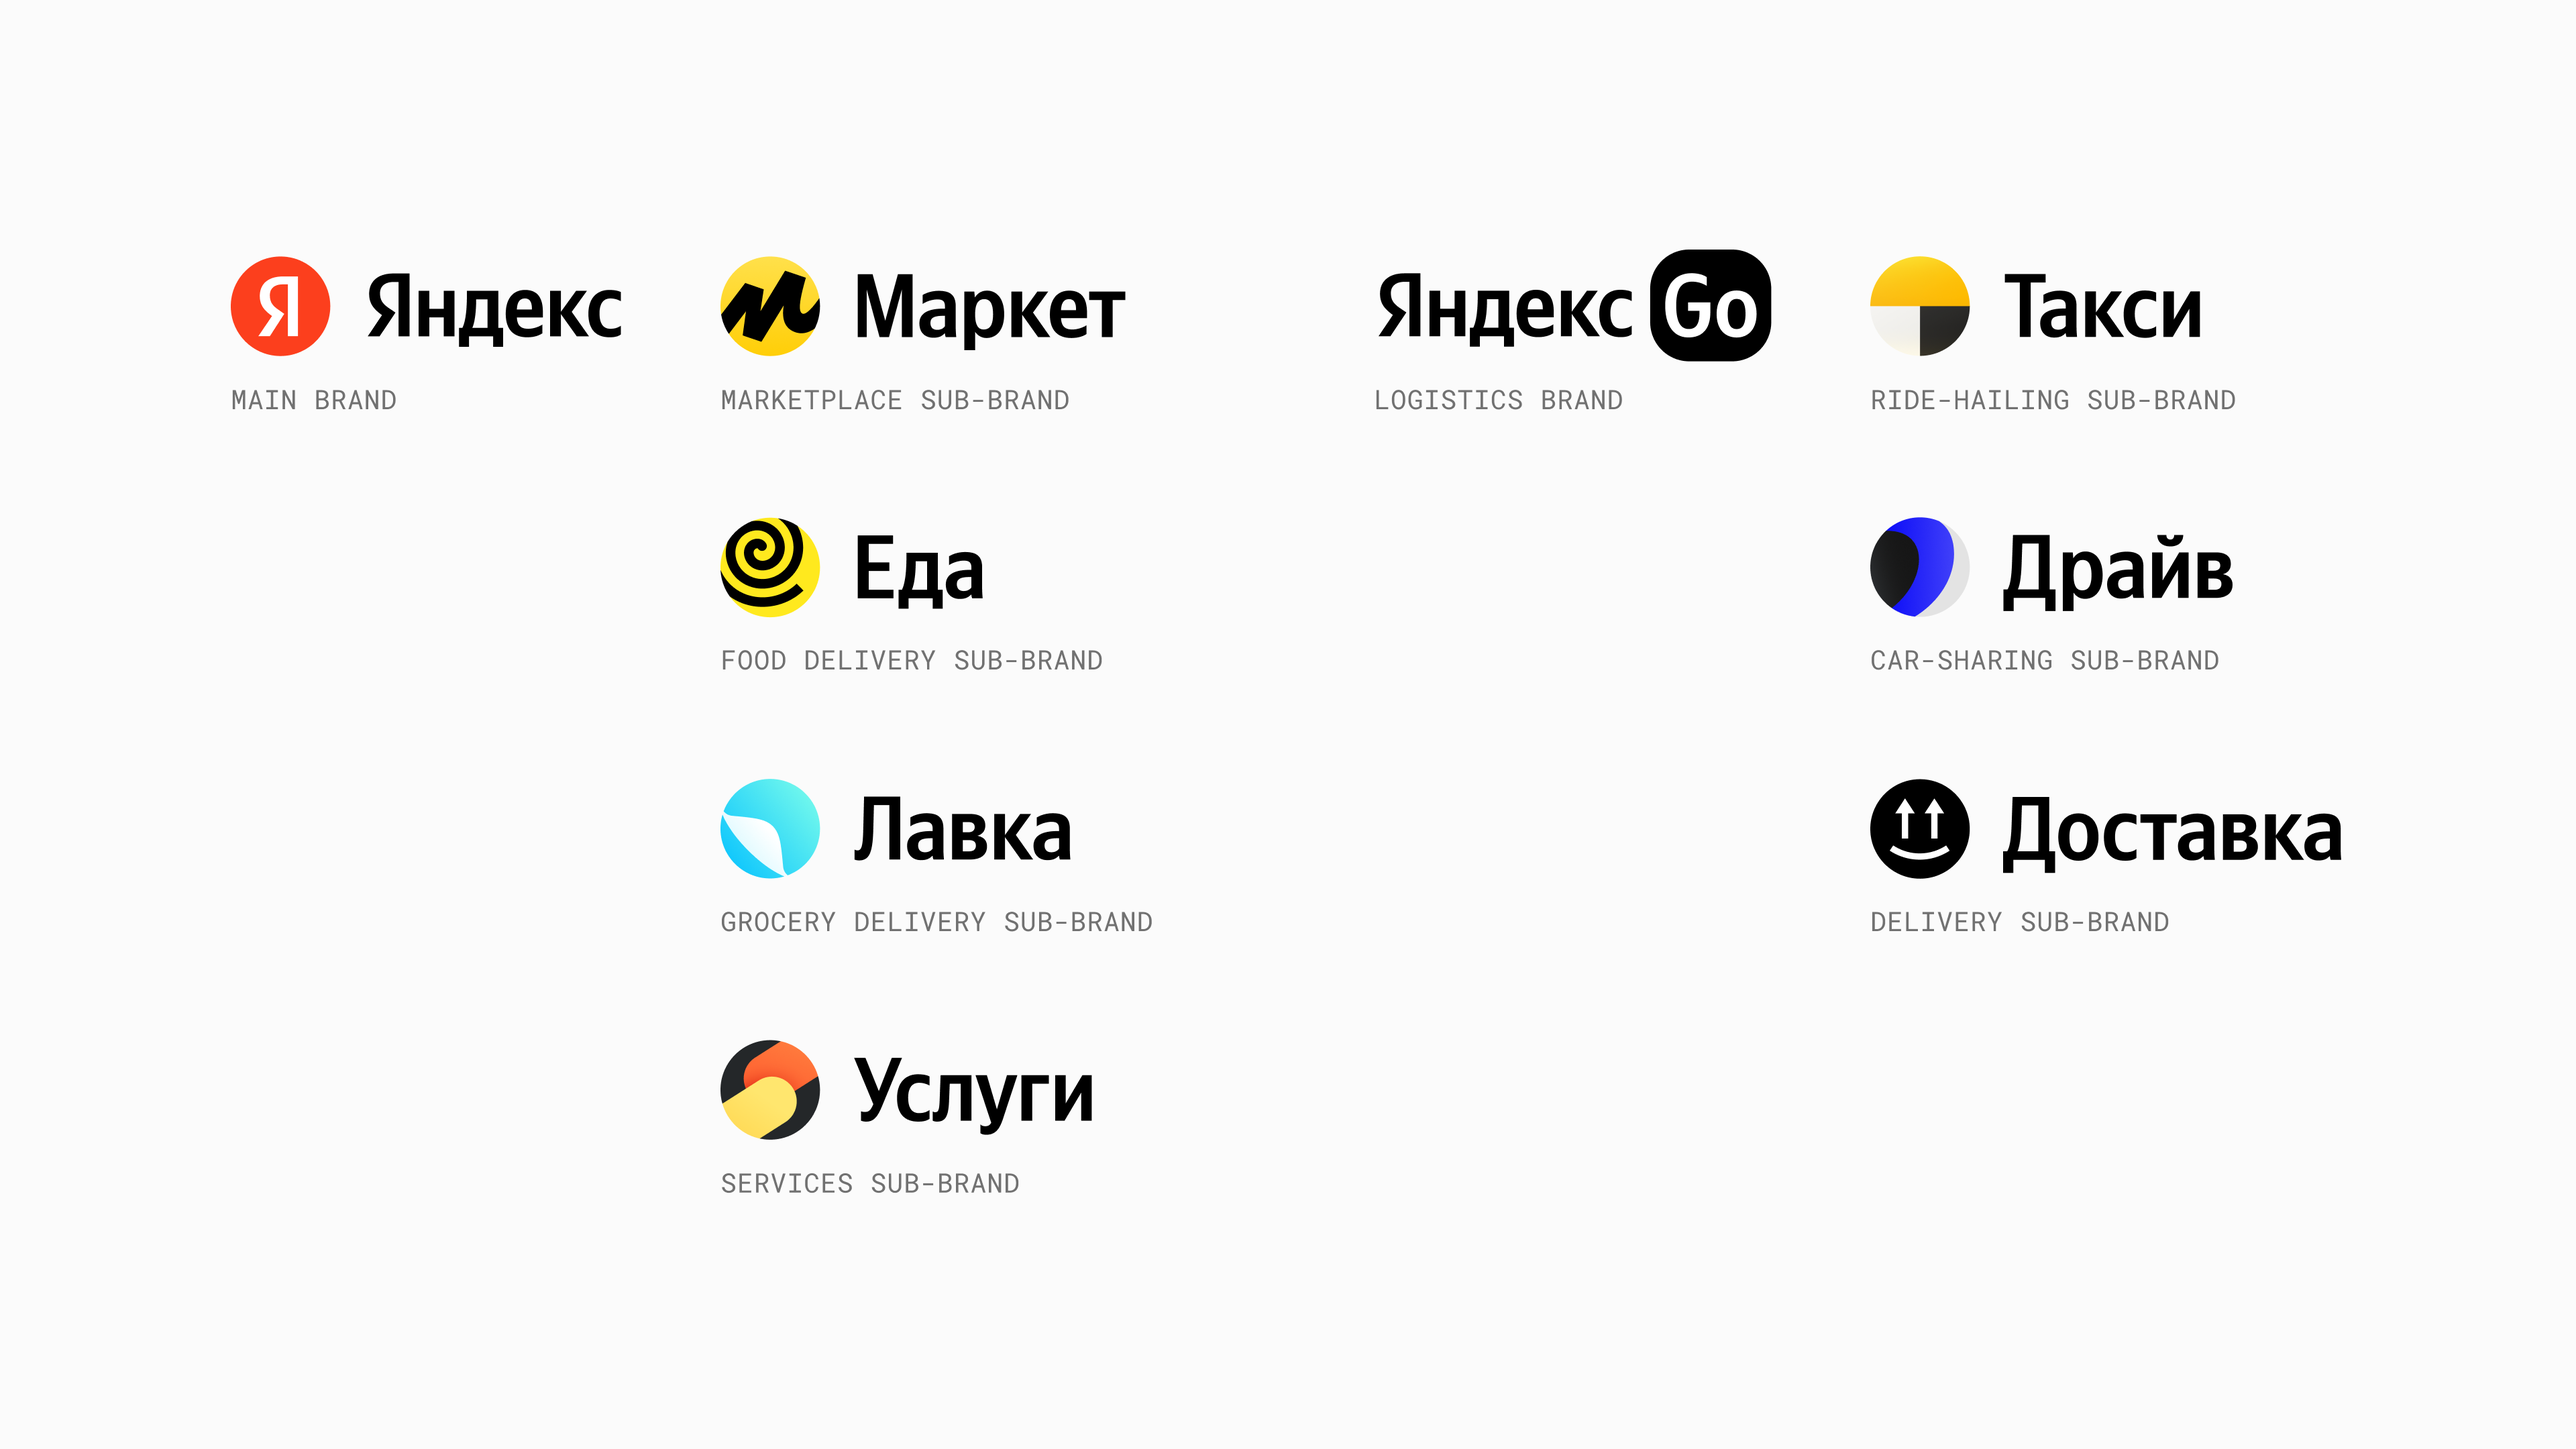
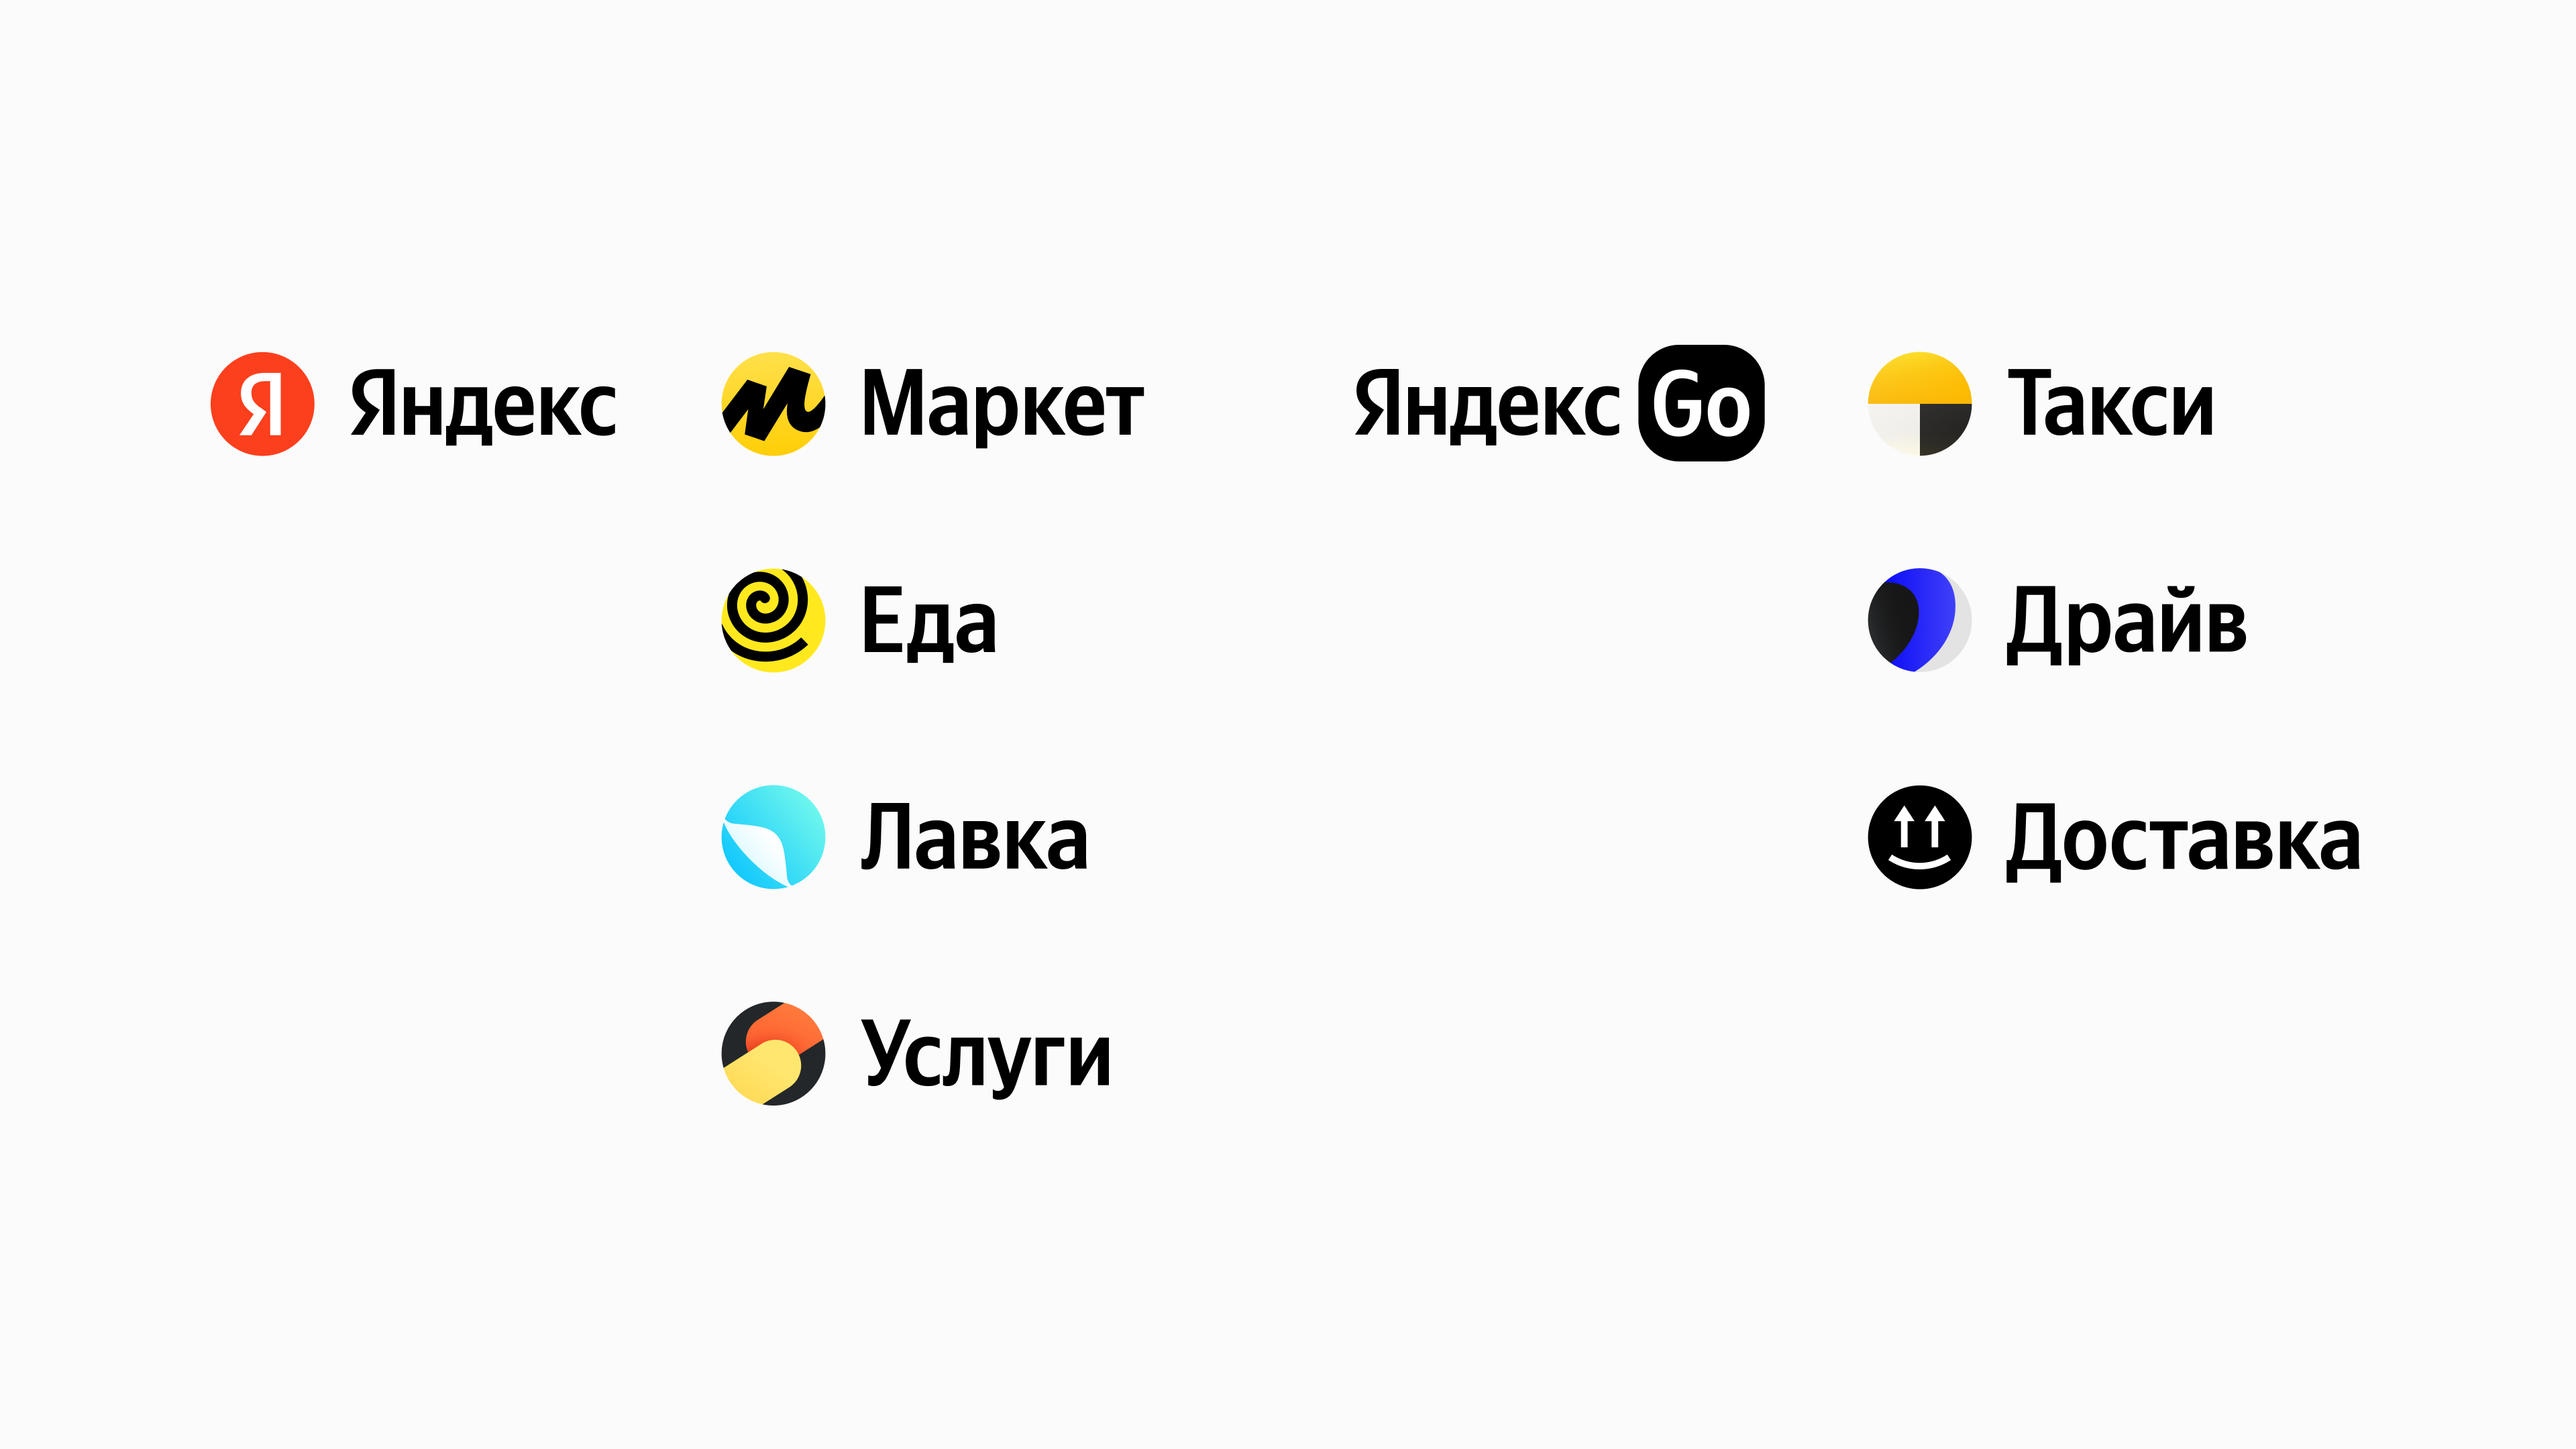
Offline branding 2 pictures changed

diff --git a/offline-branding.html b/offline-branding.html
@@ -32,11 +32,11 @@
   </div>
   <div class="case">
     <img class="row-img" src="./offline-branding/1.png" alt="Brand architecture">
-    <p class="caption">Brand architecture</p>
+    <p class="caption">Brand architecture spanning 7&nbsp;sub-brands, from marketplace to&nbsp;car-sharing</p>
   </div>
   <div class="case">
     <img class="row-img" src="./offline-branding/2.png" alt="Design system idea">
-    <p class="caption">Design system idea</p>
+    <p class="caption">A&nbsp;two-layered design system: primary logo and sub-brand&rsquo;s name, followed by&nbsp;sub-brand graphics</p>
   </div>
   <div class="case">
     <img class="row-img" src="./offline-branding/3.jpg" alt="Cars with logo">
